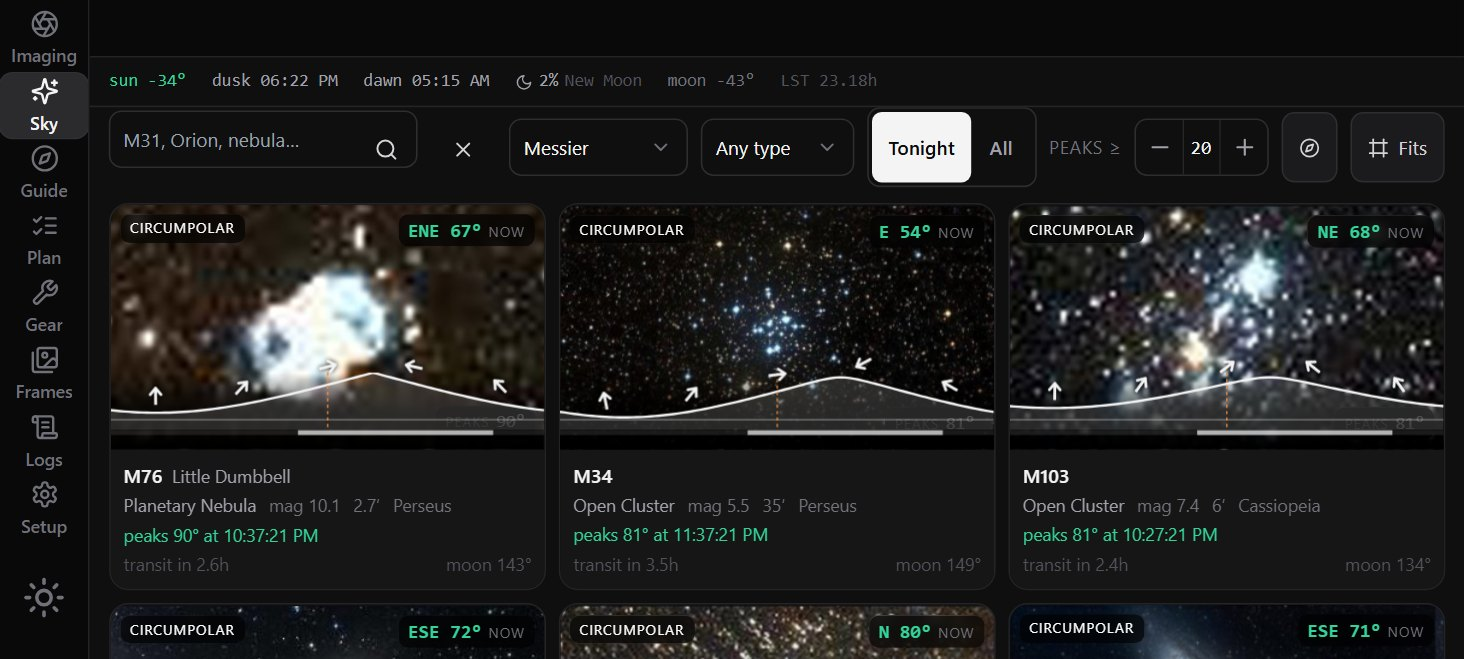
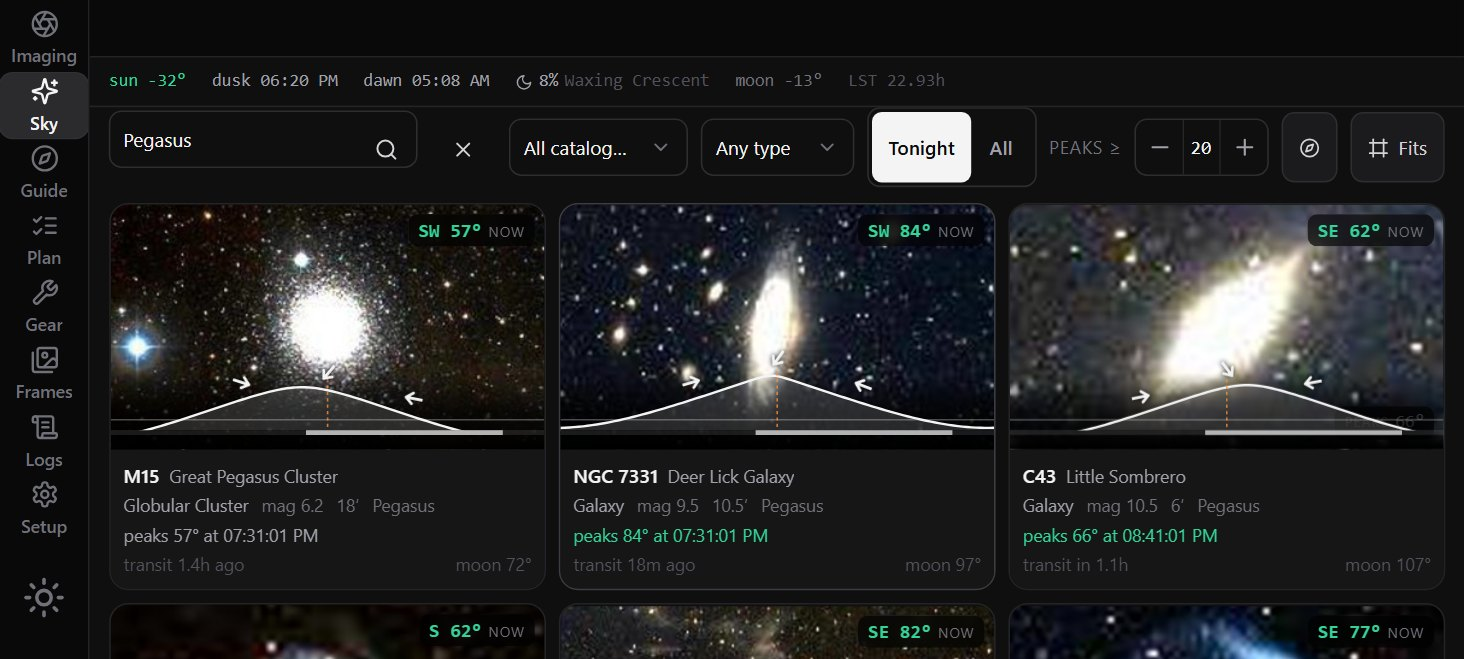
The sloppiness pass: true footer, one guiding figure per night, no Andromeda, no invented times
From a fresh-eyes review of every line and image:
- Footer says exactly which screenshots are real (26 October) and which
  are the simulator, instead of "every number was measured".
- Guiding is quoted per night (0.73" on 8 October, 0.75" on 26 October);
  the "3.38" to 1.29"" line and "night after night" are gone; the R² stat
  becomes the 0.19' polar alignment.
- AI chat: the 9:21 pm "centred to 0.22'" message is shown, the 10:56 pm
  frame count shows its 26 + 5 split so it adds up, "Opening the polar
  alignment panel" says what 7:46 pm was for, and a readout test sentence
  is cut from 26 October.
- Steps: "Give the AI the server's name", the AI must be on the same
  network, Linux and Raspberry Pi "later", "Coming with the release" gone.
- Atlas retaken searched for Pegasus (the app's own hint names M31), the
  plan folded with three Pegasus galaxies, M42 framed with labels off.
- Night timeline: invented clock times removed, cooling before dark.
- Plainer headings ("What else it does", "Weather and safety", "Works
  with ASCOM and Alpaca gear, and DSLRs"), the third "go to bed" line
  cut, ladder at 250 mm, Linux "Coming later", small repeats cut.

diff --git a/index.html b/index.html
@@ -40,7 +40,7 @@
   <nav class="links">
     <a href="#ai">AI</a>
     <a href="#guider">Guiding</a>
-    <a href="#anywhere">Screens</a>
+    <a href="#anywhere">Platforms</a>
     <a href="#tour">Tour</a>
     <a href="#features">Features</a>
     <a href="#download">Download</a>
@@ -64,8 +64,8 @@
         <h1 class="reveal" style="--d:.08s">Never waste<br /><span class="grad">a clear night.</span></h1>
         <p class="lede reveal" style="--d:.16s">
           Alan Astro finds your target, focuses, guides and works through your plan from dusk to dawn,
-          so you can go to bed. Check in from a laptop, tablet or phone. If anything goes wrong, it
-          tells you what happened and why. On our own field nights, an AI ran all of it from a few typed words.
+          so you can go to bed. Check in from a laptop, tablet or phone. If a step fails, it tells
+          you which one and why. On our own field nights, an AI ran all of it.
         </p>
         <div class="cta reveal" style="--d:.24s">
           <a class="btn" href="mailto:alan.astro.space@gmail.com?subject=Tell%20me%20when%20Alan%20Astro%20is%20out">
@@ -82,7 +82,7 @@
           <span><svg viewBox="0 0 24 24"><path d="M16.4 12.6c0-2.6 2.1-3.8 2.2-3.9-1.2-1.8-3.1-2-3.8-2-1.6-.2-3.1.9-3.9.9s-2-.9-3.4-.9C5.8 6.8 4 7.9 3 9.6c-2 3.5-.5 8.6 1.4 11.4 1 1.4 2.1 2.9 3.6 2.9 1.4-.1 2-.9 3.7-.9s2.2.9 3.7.9 2.5-1.4 3.4-2.8c1.1-1.6 1.5-3.1 1.5-3.2 0 0-3-1.1-3-4.3zM13.8 4.9c.8-.9 1.3-2.2 1.2-3.4-1.1 0-2.5.7-3.3 1.7-.7.8-1.3 2.1-1.2 3.3 1.3.1 2.5-.6 3.3-1.6z"/></svg>iPhone &amp; iPad</span>
           <span><svg viewBox="0 0 24 24"><circle cx="12" cy="12" r="9" fill="none" stroke="currentColor" stroke-width="1.8"/><path fill="none" stroke="currentColor" stroke-width="1.8" d="M3 12h18M12 3c3 3.2 3 14.8 0 18M12 3c-3 3.2-3 14.8 0 18"/></svg>Any browser</span>
         </div>
-        <p class="credit reveal" style="--d:.4s">Behind this text: Stephan's Quintet, shot with Alan Astro from a Bortle&nbsp;8 backyard. 2,800&nbsp;mm, 38&nbsp;×&nbsp;3&nbsp;min, guiding 0.73″.</p>
+        <p class="credit reveal" style="--d:.4s">Behind this text: Stephan's Quintet, shot with Alan Astro from a Bortle&nbsp;8 backyard. 2,800&nbsp;mm, 38 of the 40 three-minute frames, guiding 0.73″.</p>
       </div>
 
       <div class="devices reveal" style="--d:.2s" aria-label="Alan Astro on a laptop, a tablet and a phone">
@@ -99,37 +99,36 @@
   <!-- ── Marquee ──────────────────────────────────────────────────────── -->
   <div class="marquee" aria-label="What it works with and what it does">
     <div class="marquee-track">
-      <span>ASCOM</span><span>Alpaca</span><span>DSLR cameras</span><span>Offline plate solving</span><span>PHD2</span><span>Multi-star guiding</span><span>Live stacking</span><span>Meridian flip</span><span>Mosaic planner</span><span>Flat wizard</span><span>Weather limits</span><span>Your own horizon</span><span>Discord · Slack · ntfy</span><span>Backlash measurement</span><span>Night mode</span>
-      <span aria-hidden="true">ASCOM</span><span aria-hidden="true">Alpaca</span><span aria-hidden="true">DSLR cameras</span><span aria-hidden="true">Offline plate solving</span><span aria-hidden="true">PHD2</span><span aria-hidden="true">Multi-star guiding</span><span aria-hidden="true">Live stacking</span><span aria-hidden="true">Meridian flip</span><span aria-hidden="true">Mosaic planner</span><span aria-hidden="true">Flat wizard</span><span aria-hidden="true">Weather limits</span><span aria-hidden="true">Your own horizon</span><span aria-hidden="true">Discord · Slack · ntfy</span><span aria-hidden="true">Backlash measurement</span><span aria-hidden="true">Night mode</span>
+      <span>ASCOM</span><span>Alpaca</span><span>DSLRs</span><span>Offline plate solving</span><span>PHD2</span><span>Multi-star guiding</span><span>Live stacking</span><span>Meridian flip</span><span>Mosaic planner</span><span>Flat wizard</span><span>Weather limits</span><span>Your own horizon</span><span>Discord · Slack · ntfy</span><span>Backlash measurement</span><span>Night mode</span>
+      <span aria-hidden="true">ASCOM</span><span aria-hidden="true">Alpaca</span><span aria-hidden="true">DSLRs</span><span aria-hidden="true">Offline plate solving</span><span aria-hidden="true">PHD2</span><span aria-hidden="true">Multi-star guiding</span><span aria-hidden="true">Live stacking</span><span aria-hidden="true">Meridian flip</span><span aria-hidden="true">Mosaic planner</span><span aria-hidden="true">Flat wizard</span><span aria-hidden="true">Weather limits</span><span aria-hidden="true">Your own horizon</span><span aria-hidden="true">Discord · Slack · ntfy</span><span aria-hidden="true">Backlash measurement</span><span aria-hidden="true">Night mode</span>
     </div>
   </div>
 
   <!-- ── Stats ────────────────────────────────────────────────────────── -->
   <section class="wrap stats" aria-label="Measured on real equipment">
-    <div class="stat reveal"><b><span data-count="0.7" data-dec="1">0.7</span><small>″ RMS</small></b><span>guiding error on real stars, and under 1″ night after night</span></div>
+    <div class="stat reveal"><b><span data-count="0.73" data-dec="2">0.73</span><small>″ RMS</small></b><span>guiding at 2,800 mm, on the Stephan's Quintet night</span></div>
     <div class="stat reveal" style="--d:.08s"><b><span data-count="2800">2,800</span><small>mm</small></b><span>focal length guided at f/10, through the main scope</span></div>
     <div class="stat reveal" style="--d:.16s"><b><span data-count="18900">18,900</span><small>+</small></b><span>objects in the sky atlas, sorted by what's up tonight</span></div>
-    <div class="stat reveal" style="--d:.24s"><b><span data-count="0.997" data-dec="3">0.997</span><small>R²</small></b><span>how well the best focus curve fitted, on a real night</span></div>
+    <div class="stat reveal" style="--d:.24s"><b><span data-count="0.19" data-dec="2">0.19</span><small>′</small></b><span>polar alignment error, measured on 26 October</span></div>
   </section>
 
   <!-- ── AI-assisted ──────────────────────────────────────────────────────
        Every message below is quoted word for word from the alan-astro field
        session (498b3986), lines noted in README.md. "…" marks a cut, and
-       [brackets] replace equipment brand names and fix one typo. Times are local. -->
+       [brackets] replace equipment brand names and one garbled phrase. Times are local. -->
   <section id="ai" class="wrap section">
     <p class="kicker kicker-lg reveal">AI-assisted astronomy</p>
     <h2 class="h2 reveal">Tell it what to shoot. <em>The AI runs the night.</em></h2>
     <p class="sub reveal">
       These are real messages from field nights with an 11-inch SCT at 2,800&nbsp;mm, in a Bortle&nbsp;8
-      backyard. The owner typed a few words, and an AI ran Alan Astro: the gear, polar alignment, focus,
-      guiding and the plan. On 8&nbsp;October the target was Stephan's Quintet, and the night ended with the
-      picture at the top of this page.
+      backyard. We typed a few words, and an AI ran Alan Astro: it set up the gear, measured polar
+      alignment, focused, guided and ran the plan. On 8&nbsp;October the target was Stephan's Quintet.
     </p>
 
     <ol class="ai-steps">
-      <li class="reveal"><span>1</span><div><b>Install the server</b><p>Put Alan Astro on the computer at your telescope: a Windows PC, a Linux mini PC or a Raspberry Pi 4 or 5. That's your astro server.</p></div></li>
-      <li class="reveal" style="--d:.08s"><span>2</span><div><b>Tell the AI its name</b><p>Give the AI your astro server's name, like <code>astro-pc</code>. The server describes its own API at <code>astro-pc:5544/api</code>, with a step-by-step guide to running a night, so the AI learns everything it needs from there. <em class="soon-note">Coming with the release.</em></p></div></li>
-      <li class="reveal" style="--d:.16s"><span>3</span><div><b>Say what to shoot</b><p>A target and the sky you can see. The AI runs the night and tells you how it went.</p></div></li>
+      <li class="reveal"><span>1</span><div><b>Install the server</b><p>Put Alan Astro on the computer at your telescope: a Windows PC, or later a Linux mini PC or a Raspberry Pi 4 or 5. That's your astro server.</p></div></li>
+      <li class="reveal" style="--d:.08s"><span>2</span><div><b>Give the AI the server's name</b><p>Tell the AI your astro server's name, like <code>astro-pc</code>. The server describes its own API at <code>astro-pc:5544/api</code>, with a step-by-step guide to running a night, so the AI can learn it from there. The AI has to run on a computer on the same network.</p></div></li>
+      <li class="reveal" style="--d:.16s"><span>3</span><div><b>Say what to shoot</b><p>Name a target and the part of the sky you can see. The AI tells you how the night went.</p></div></li>
     </ol>
 
     <div class="ai-story">
@@ -149,19 +148,20 @@
 
       <ol class="chat reveal" aria-label="Messages from the night of 8 October">
         <li class="msg you"><time>7:44 pm</time>take over. take me to [the knob stage]. … got it?</li>
-        <li class="msg ai"><time>7:46 pm</time>In position: HA +0.50 h, Dec +40°, 84° up, tracking. …</li>
+        <li class="msg ai"><time>7:46 pm</time>In position: HA +0.50 h, Dec +40°, 84° up, tracking. Opening the polar alignment panel …</li>
         <li class="msg ai"><time>7:52 pm</time>You've already turned and refreshed, and the panel shows it: <b>Total error: 00° 02′ 40″, "Good — usable as it is."</b> That's down from 35′. … Then I'll focus and set up guiding, …</li>
-        <li class="msg ai"><time>8:04 pm</time>Stephan's Quintet (HCG 92) is at 61.7° altitude, due east, and crosses the meridian in 2.3 hours. Slewing and centring: …</li>
+        <li class="msg ai"><time>8:04 pm</time>Stephan's Quintet (HCG 92) is at 61.7° altitude, due east, and crosses the meridian in 2.3 hours. …</li>
         <li class="msg ai"><time>8:39 pm</time>Centred at 0.36′ (4 attempts). Starting guiding with a fresh calibration, …</li>
         <li class="msg ai"><time>8:39 pm</time>Focus holds: HFR 3.86 on a 10 s frame, better than autofocus's 4.33. …</li>
         <li class="msg ai"><time>9:02 pm</time>… All five members show, faint because it's a single sub at f/10. … Shall I re-centre and run a set of 3-minute subs?</li>
         <li class="msg you"><time>9:03 pm</time>Yes</li>
         <li class="msg ai"><time>9:20 pm</time>The plan is loaded and saved: <b>40 × 180 s, about 2h05m</b>, with the target at 76° altitude and 1.06 h to the meridian. …</li>
+        <li class="msg ai"><time>9:21 pm</time>The plan is running: <b>centred to 0.22′</b>, now starting the guider. …</li>
         <li class="msg you"><time>9:46 pm</time>Screenshot guiding plz</li>
         <li class="msg ai"><time>9:47 pm</time>… It shows <b>RMS RA 0.53″, Dec 0.50″, total 0.73″</b> over the last 100 samples, multi-star on the [camera's] built-in guide sensor at 2800 mm. For an [11-inch SCT] on [this mount], that's good.</li>
-        <li class="msg ai"><time>10:43 pm</time><b>The plan:</b> 22 of 40 frames, the flip handled on its own, …</li>
+        <li class="msg ai"><time>10:43 pm</time>… <b>The plan:</b> 22 of 40 frames, the flip handled on its own, …</li>
         <li class="msg you"><time>10:55 pm</time>You have been taking images right?</li>
-        <li class="msg ai"><time>10:56 pm</time>Yes. <b>31 subs of Stephan's Quintet so far</b>, all 180&nbsp;s at gain 100 and −10&nbsp;°C: … That's 93 minutes of data already.</li>
+        <li class="msg ai"><time>10:56 pm</time>Yes. <b>31 subs of Stephan's Quintet so far</b>, all 180&nbsp;s at gain 100 and −10&nbsp;°C:<ul class="in-msg"><li><b>26 from the plan:</b> HFR 4.14–5.63 (median 4.95), 186–289 stars each. 14 more to come.</li><li><b>5 from before the plan:</b> the first test sub plus my 4 test subs.</li></ul>That's 93 minutes of data already. …</li>
         <li class="msg you"><time>11:42 pm</time>Need to take flats, auto exposure</li>
         <li class="msg ai"><time>11:43 pm</time>The quintet plan is <b>finished: 40/40 frames</b>. …</li>
         <li class="msg ai"><time>11:44 pm</time><b>Flats done: 20 frames at 0.095 s, mean 32,846 ADU</b> against a target of 32,768, which is half well almost exactly. … They're saved beside the lights.</li>
@@ -176,7 +176,7 @@
           <li class="msg you"><time>9:32 pm</time>I am going outside now</li>
           <li class="msg ai"><time>9:32 pm</time>Ready. The polar measurement is waiting at the knob stage, last read at 16.45′ of azimuth.<br />At the mount:<ol class="in-msg"><li>Mark the azimuth knob's position.</li><li>Turn it exactly <b>one full revolution west</b>, the way the screen's azimuth arrow points.</li><li>Say "done". …</li></ol></li>
           <li class="msg you"><time>9:33 pm</time>Done</li>
-          <li class="msg ai"><time>9:35 pm</time>Run B reads <b>azimuth −7.55′</b>, against 17.18′ before the turn. So one revolution truly moved the azimuth <b>24.7′</b> on the sky, and the refresh reported <b>26.6′</b>. … One more turn and you can go inside: about <b>a third of a revolution east, roughly 110°</b>, then say "done". …</li>
+          <li class="msg ai"><time>9:35 pm</time>Run B reads <b>azimuth −7.55′</b>, against 17.18′ before the turn. … One more turn and you can go inside: about <b>a third of a revolution east, roughly 110°</b>, then say "done". …</li>
           <li class="msg you"><time>9:35 pm</time>What?</li>
           <li class="msg ai"><time>9:36 pm</time>Sorry, that was too much at once. Here's the short version. The full turn you made went a little past the target. Now turn the <b>same azimuth knob back the other way (east)</b> by about <b>a third of a turn</b>. Picture the knob as a clock face: start at 12 and stop at about 4. Then say "done" and go inside. I'll do the rest from here.</li>
         </ol>
@@ -194,7 +194,7 @@
       </article>
     </div>
 
-    <p class="ai-note reveal">Quoted word for word from the session logs. "…" marks a cut, and [brackets] replace equipment brand names and fix one typo. The AI isn't built into the app. It drove Alan Astro through the app's own server, the same way the app's screens do.</p>
+    <p class="ai-note reveal">Quoted word for word from the session logs. "…" marks a cut, and [brackets] replace equipment brand names and one garbled phrase. The AI isn't built into the app. It drove Alan Astro through the app's own server, the same way the app's screens do.</p>
   </section>
 
   <!-- ── Guider ───────────────────────────────────────────────────────── -->
@@ -214,36 +214,34 @@
           <li class="reveal"><span class="tick"><svg viewBox="0 0 24 24"><path d="m5 12 5 5 9-10"/></svg></span><div><b>Limits that know your scope</b><p>The minimum move, the settle limit and the search area each have a floor in arcseconds, worked out for your camera and focal length, so none of them can be set too small.</p></div></li>
           <li class="reveal"><span class="tick"><svg viewBox="0 0 24 24"><path d="m5 12 5 5 9-10"/></svg></span><div><b>Knows your guide setup</b><p>A guide scope, an off-axis guider or a camera's built-in guide sensor, with binning counted in. It won't start guiding until it knows the pixel scale.</p></div></li>
           <li class="reveal"><span class="tick"><svg viewBox="0 0 24 24"><path d="m5 12 5 5 9-10"/></svg></span><div><b>Several stars at once</b><p>It follows up to five stars and uses the middle value of their movement, so one star in bad seeing can't pull the mount off.</p></div></li>
-          <li class="reveal"><span class="tick"><svg viewBox="0 0 24 24"><path d="m5 12 5 5 9-10"/></svg></span><div><b>Picks clean stars</b><p>It chooses stars that stand out clearly from the background, not just the brightest, and can skip the stretched stars at the edge of an off-axis guider. On one field, that alone took guiding from 3.38″ to 1.29″ RMS.</p></div></li>
+          <li class="reveal"><span class="tick"><svg viewBox="0 0 24 24"><path d="m5 12 5 5 9-10"/></svg></span><div><b>Picks clean stars</b><p>It chooses stars that stand out clearly from the background, not just the brightest, and can skip the stretched stars at the edge of an off-axis guider.</p></div></li>
           <li class="reveal"><span class="tick"><svg viewBox="0 0 24 24"><path d="m5 12 5 5 9-10"/></svg></span><div><b>A guiding assistant</b><p>It watches the mount drift with no corrections, tells seeing apart from real drift, and suggests a minimum move.</p></div></li>
         </ul>
       </div>
 
       <div class="glow-wrap reveal">
-        <div class="frame"><img src="assets/app-guide.jpg" loading="lazy" width="1600" height="1000" alt="Guiding on real stars on 26 October: five guide stars boxed, and the error at 0.57″ in RA, 0.50″ in DEC, 0.75″ in total" /></div>
-        <div class="callout c1"><b>0.7″</b>RMS guiding,<br />measured on real stars</div>
-        <div class="callout c2"><b>&lt;&nbsp;1″</b>RMS,<br />night after night</div>
+        <div class="frame"><img src="assets/app-guide.jpg" loading="lazy" width="1600" height="1000" alt="Guiding on real stars on 26 October: five guide stars boxed, and the error at 0.57″ in RA, 0.50″ in Dec, 0.75″ in total" /></div>
+        <div class="callout c1"><b>0.73″</b>RMS guiding,<br />the Stephan's Quintet night</div>
+        <div class="callout c2"><b>0.75″</b>RMS on 26 October,<br />the night in this picture</div>
       </div>
     </div>
 
     <div class="ladder reveal">
-      <div class="ladder-row"><span>240 mm</span><div class="ladder-bar"><i style="--w:8.6%"></i></div><span>0.31 px</span></div>
+      <div class="ladder-row"><span>250 mm</span><div class="ladder-bar"><i style="--w:8.9%"></i></div><span>0.32 px</span></div>
       <div class="ladder-row"><span>700 mm</span><div class="ladder-bar"><i style="--w:25%"></i></div><span>0.90 px</span></div>
       <div class="ladder-row"><span>1,400 mm</span><div class="ladder-bar"><i style="--w:50%"></i></div><span>1.8 px</span></div>
       <div class="ladder-row"><span>2,800 mm</span><div class="ladder-bar"><i style="--w:100%"></i></div><span>3.6 px</span></div>
-      <p>How far one arcsecond of error moves a star on a camera with 3.76&nbsp;µm pixels. At 2,800&nbsp;mm it moves almost twelve times as far as at 240&nbsp;mm, so a limit set in pixels would be wrong by the same amount. That's why the guider checks its limits in arcseconds.</p>
+      <p>How far one arcsecond of error moves a star on a camera with 3.76&nbsp;µm pixels. At 2,800&nbsp;mm it moves about eleven times as far as at 250&nbsp;mm, so a limit set in pixels would be wrong by the same amount.</p>
     </div>
   </section>
 
-  <div class="wrap"><p class="quote reveal">Start the plan and go to bed. <em>Check your frames in the morning.</em></p></div>
-
   <!-- ── Anywhere ─────────────────────────────────────────────────────── -->
   <section id="anywhere" class="wrap section center">
-    <p class="kicker reveal">Any screen</p>
-    <h2 class="h2 reveal">One server at the telescope. <em>Control it from any device.</em></h2>
+    <p class="kicker reveal">Platforms</p>
+    <h2 class="h2 reveal">One server at the telescope. <em>Open it on a laptop, tablet or phone.</em></h2>
     <p class="sub reveal">
-      The server runs on the computer at your mount. Open it from any laptop, tablet or phone on the
-      same network. Several screens can follow the same session, and closing one stops nothing.
+      The server runs on the computer at your mount, and anything on the same network can open it.
+      Several screens can follow the same session, and closing one doesn't stop the night.
     </p>
 
     <div class="anywhere">
@@ -265,7 +263,7 @@
       <div class="tiles">
         <div class="tile reveal"><svg viewBox="0 0 24 24" class="line"><circle cx="12" cy="12" r="9"/><path d="M3 12h18M12 3c3 3.2 3 14.8 0 18M12 3c-3 3.2-3 14.8 0 18"/></svg><div><b>Any browser</b><span>Windows, macOS, Linux, ChromeOS · made for touch</span></div></div>
         <div class="tile reveal" style="--d:.08s"><svg viewBox="0 0 24 24"><path d="M4 3.5v17l9.5-8.5zM14.8 13.2l2.6 2.4-11 6.3zM14.8 10.8 6.4 2.1l11 6.3zM18.6 9.2 21 10.6c.9.6.9 2.2 0 2.8l-2.4 1.4-2.8-2.8z"/></svg><div><b>Android</b><span>A native app for phones and tablets</span></div></div>
-        <div class="tile reveal" style="--d:.16s"><svg viewBox="0 0 24 24"><path d="M16.4 12.6c0-2.6 2.1-3.8 2.2-3.9-1.2-1.8-3.1-2-3.8-2-1.6-.2-3.1.9-3.9.9s-2-.9-3.4-.9C5.8 6.8 4 7.9 3 9.6c-2 3.5-.5 8.6 1.4 11.4 1 1.4 2.1 2.9 3.6 2.9 1.4-.1 2-.9 3.7-.9s2.2.9 3.7.9 2.5-1.4 3.4-2.8c1.1-1.6 1.5-3.1 1.5-3.2 0 0-3-1.1-3-4.3zM13.8 4.9c.8-.9 1.3-2.2 1.2-3.4-1.1 0-2.5.7-3.3 1.7-.7.8-1.3 2.1-1.2 3.3 1.3.1 2.5-.6 3.3-1.6z"/></svg><div><b>iPhone &amp; iPad</b><span>A native app for iPhone and iPad</span></div></div>
+        <div class="tile reveal" style="--d:.16s"><svg viewBox="0 0 24 24"><path d="M16.4 12.6c0-2.6 2.1-3.8 2.2-3.9-1.2-1.8-3.1-2-3.8-2-1.6-.2-3.1.9-3.9.9s-2-.9-3.4-.9C5.8 6.8 4 7.9 3 9.6c-2 3.5-.5 8.6 1.4 11.4 1 1.4 2.1 2.9 3.6 2.9 1.4-.1 2-.9 3.7-.9s2.2.9 3.7.9 2.5-1.4 3.4-2.8c1.1-1.6 1.5-3.1 1.5-3.2 0 0-3-1.1-3-4.3zM13.8 4.9c.8-.9 1.3-2.2 1.2-3.4-1.1 0-2.5.7-3.3 1.7-.7.8-1.3 2.1-1.2 3.3 1.3.1 2.5-.6 3.3-1.6z"/></svg><div><b>iPhone &amp; iPad</b><span>A native app</span></div></div>
       </div>
     </div>
   </section>
@@ -283,8 +281,8 @@
     </div>
     <div class="stage glow-wrap reveal">
       <div class="frame">
-        <img class="on" src="assets/sky.jpg" loading="lazy" alt="The sky atlas: targets that rise tonight, each with its altitude curve" />
-        <img src="assets/app-frame-m42.jpg" loading="lazy" alt="Framing M42, the Orion Nebula: the camera's field of view on the sky, with nearby objects labelled" />
+        <img class="on" src="assets/sky.jpg" loading="lazy" alt="The sky atlas, searched for Pegasus: each target with its altitude curve tonight" />
+        <img src="assets/app-frame.jpg" loading="lazy" alt="Framing M42, the Orion Nebula: the camera's field of view drawn on the sky" />
         <img src="assets/app-plan.jpg" loading="lazy" alt="The Plan screen with three targets, Stephan's Quintet first" />
         <img src="assets/app-guide.jpg" loading="lazy" alt="Guiding on real stars on 26 October, at 0.75″ total" />
       </div>
@@ -297,7 +295,7 @@
   <section class="wrap section">
     <p class="kicker reveal">Dusk to dawn</p>
     <h2 class="h2 reveal">Plan it in the evening. <em>Wake up to data.</em></h2>
-    <p class="sub reveal">A plan runs the whole night, from cooling the camera at dusk to parking the mount at dawn. If the weather turns bad, it pauses and carries on when the sky clears.</p>
+    <p class="sub reveal">A plan runs the whole night, from cooling the camera at dusk to sending the mount home at dawn. If the weather turns bad, it pauses and carries on when the sky clears.</p>
 
     <div class="night">
       <svg class="curve" viewBox="0 0 1000 130" preserveAspectRatio="none" aria-hidden="true">
@@ -307,17 +305,17 @@
         <path class="path" d="M0,10 C120,20 180,120 500,124 C820,120 880,20 1000,10" />
         <text class="lbl" x="6" y="24">sunset</text>
         <text class="lbl" x="940" y="24">sunrise</text>
-        <text class="lbl" x="462" y="112">sun −52°</text>
+        <text class="lbl" x="468" y="112">midnight</text>
       </svg>
       <div class="steps">
-        <div class="step" style="--i:0"><time>20:40</time><b>Wait for dark</b><span>Until the sun is 12° below the horizon</span></div>
-        <div class="step" style="--i:1"><time>20:55</time><b>Cool the camera</b><span>Slowly, not all at once</span></div>
-        <div class="step" style="--i:2"><time>21:10</time><b>Slew, solve, centre</b><span>Until the target is where you framed it</span></div>
-        <div class="step" style="--i:3"><time>21:14</time><b>Autofocus</b><span>And reports how good the fit was</span></div>
-        <div class="step" style="--i:4"><time>21:20</time><b>Guide and dither</b><span>Waits for guiding to settle before each frame</span></div>
-        <div class="step" style="--i:5"><time>00:36</time><b>Meridian flip</b><span>Stops guiding, flips, starts again</span></div>
-        <div class="step" style="--i:6"><time>02:10</time><b>Refocus</b><span>After a set time, a temperature change or softer stars</span></div>
-        <div class="step" style="--i:7"><time>05:05</time><b>Home and warm up</b><span>Then an alert to your phone, if you've set one up</span></div>
+        <div class="step" style="--i:0"><b>Cool the camera</b><span>Slowly, not all at once</span></div>
+        <div class="step" style="--i:1"><b>Wait for dark</b><span>Until the sun is 12° below the horizon</span></div>
+        <div class="step" style="--i:2"><b>Slew, solve, centre</b><span>Until the target is where you framed it</span></div>
+        <div class="step" style="--i:3"><b>Autofocus</b><span>Then reports how well the curve fitted</span></div>
+        <div class="step" style="--i:4"><b>Guide and dither</b><span>Waits for guiding to settle before each frame</span></div>
+        <div class="step" style="--i:5"><b>Meridian flip</b><span>Stops guiding, flips, starts again</span></div>
+        <div class="step" style="--i:6"><b>Refocus</b><span>After a set time, a temperature change or softer stars</span></div>
+        <div class="step" style="--i:7"><b>Home and warm up</b><span>Then an alert to your phone, if you've set one up</span></div>
       </div>
     </div>
   </section>
@@ -325,21 +323,21 @@
   <!-- ── Features (bento) ─────────────────────────────────────────────── -->
   <section id="features" class="wrap section">
     <p class="kicker reveal">Also included</p>
-    <h2 class="h2 reveal">Everything else <em>a night needs.</em></h2>
+    <h2 class="h2 reveal">What else <em>it does.</em></h2>
 
     <div class="bento">
       <article class="card media span-4 wide reveal">
-        <img class="full" src="assets/focus.jpg" loading="lazy" width="1600" height="934" alt="A real autofocus run on 26 October: the curve fitted through the star sizes, HFR 6.19 to 4.09, R² 0.99" />
+        <img class="full" src="assets/focus.jpg" loading="lazy" width="1544" height="934" alt="A real autofocus run on 26 October: the curve fitted through the star sizes, HFR 6.19 to 4.09, R² 0.99" />
         <div class="body">
           <h3>Autofocus that shows its work</h3>
-          <p>It steps the focuser through focus, fits a curve through the star sizes and tells you how well the curve fits. You don't have to measure backlash first: every move finishes from the same side, so slack in the gears can't move the result. It applies the focus offset you set for each filter, and if a run fails, it says so.</p>
+          <p>It steps the focuser through focus, fits a curve through the star sizes and tells you how well the curve fits. It can measure the focuser's backlash, but it doesn't need to: every move finishes from the same side, so slack in the gears can't move the result. It applies the focus offset you set for each filter, and if a run fails, it says so.</p>
         </div>
       </article>
       <article class="card span-2 reveal" style="--d:.08s">
         <div class="num">0.12<small>′</small></div>
         <h3>Plate solving that catches mistakes</h3>
         <p>It solves on your own computer, with no internet. On a real night it centred a target to 0.12 arcminutes in two tries. It also reports the focal length it measured, so you'll notice if you forgot the reducer.</p>
-        <ul class="mini"><li>Works offline</li><li>Centres as close as you ask</li><li>Names what's in the frame</li><li>Measured vs. expected focal length</li></ul>
+        <ul class="mini"><li>Centres to the tolerance you set</li><li>Names what's in the frame</li><li>Measured vs. expected focal length</li></ul>
       </article>
 
       <article class="card span-2 reveal">
@@ -350,7 +348,7 @@
       <article class="card span-2 reveal" style="--d:.08s">
         <div class="ico"><svg viewBox="0 0 24 24"><rect x="4" y="4" width="12" height="12" rx="2"/><rect x="8" y="8" width="12" height="12" rx="2"/></svg></div>
         <h3>Live stacking</h3>
-        <p>Frames are lined up on their stars and stacked as they arrive, with your darks and flats applied. Bad frames are left out, and it tells you why. It can stack a running plan as it goes.</p>
+        <p>Frames are lined up on their stars and stacked as they arrive, with your darks and flats applied. Bad frames are left out, and it tells you why.</p>
       </article>
       <article class="card span-2 reveal" style="--d:.16s">
         <div class="ico"><svg viewBox="0 0 24 24"><path d="M4 14a8 8 0 0 1 16 0"/><path d="M12 14l4-4"/><path d="M3 18h18"/></svg></div>
@@ -359,7 +357,7 @@
       </article>
 
       <article class="card media span-3 reveal">
-        <img src="assets/sky.jpg" loading="lazy" width="1800" height="1125" alt="Sky atlas cards with altitude curves for Caldwell objects" />
+        <img src="assets/sky.jpg" loading="lazy" width="1800" height="1125" alt="Sky atlas cards with altitude curves, searched for Pegasus" />
         <div class="body">
           <h3>A sky atlas for tonight</h3>
           <p>Over 18,900 objects: OpenNGC, the Messier, Caldwell and Abell lists, nebula and cluster catalogues such as Sharpless and Barnard, and the planets and comets. It shows what gets high enough in darkness tonight, in the directions you can see. Each target has its altitude curve with your horizon drawn on it, when it's highest and how far it is from the Moon. There's a mosaic planner too.</p>
@@ -367,7 +365,7 @@
       </article>
       <article class="card span-3 reveal" style="--d:.08s">
         <div class="ico"><svg viewBox="0 0 24 24"><path d="M12 3 3 20h18z"/><path d="M12 10v4M12 17v.5"/></svg></div>
-        <h3>Safe while you sleep</h3>
+        <h3>Weather and safety</h3>
         <p>Six weather limits (wind, gusts, rain, cloud, humidity and dew) pause the night and pick it up again when conditions clear, instead of ending it. A safety monitor that stops answering counts as unsafe. Your own horizon applies to every slew.</p>
         <ul class="chips" style="margin-top:22px">
           <li>Discord</li><li>Slack</li><li>ntfy</li><li>Home Assistant</li>
@@ -392,7 +390,7 @@
     </div>
     <div class="night-facts">
       <div class="reveal"><b>Red, not white</b>Even the brightest text is a soft red, and a dimmer can take the screen down by up to 70%. Red light disturbs night vision least.</div>
-      <div class="reveal" style="--d:.08s"><b>Turns itself on</b>Unless you've picked a theme yourself, it switches on after dusk and remembers, so the app never opens on a bright screen in the dark.</div>
+      <div class="reveal" style="--d:.08s"><b>Turns itself on</b>Unless you've picked a theme yourself, it switches on after dusk, so the app never opens on a bright screen in the dark.</div>
       <div class="reveal" style="--d:.16s"><b>Try it here</b><button class="btn btn-ghost btn-sm theme-toggle-inline" type="button" style="margin-top:10px">Turn this page red</button></div>
     </div>
   </section>
@@ -400,7 +398,7 @@
   <!-- ── Hardware ─────────────────────────────────────────────────────── -->
   <section id="hardware" class="wrap section center">
     <p class="kicker reveal">Hardware</p>
-    <h2 class="h2 reveal">Works with the gear <em>you already have.</em></h2>
+    <h2 class="h2 reveal">Works with ASCOM and Alpaca gear, <em>and DSLRs.</em></h2>
     <ul class="chips center-chips reveal">
       <li class="strong">ASCOM</li><li class="strong">Alpaca</li><li class="strong">DSLRs</li>
       <li>Cameras</li><li>Mounts</li><li>Focusers</li><li>Filter wheels</li><li>Rotators</li>
@@ -422,7 +420,7 @@
             <div><h3>Windows</h3><p class="meta">Installer · 64-bit</p></div>
           </div>
           <p>Installs a Windows service that starts with the computer and serves the app on port <code>5544</code>. Open the address it shows from any browser on your network.</p>
-          <ul class="mini"><li>ASCOM · Alpaca · DSLRs</li><li>Runs in the background as a service</li><li>Installs over an older version</li><li>A simulator for every device, to try it indoors</li></ul>
+          <ul class="mini"><li>ASCOM · Alpaca · DSLRs</li><li>A simulator for every device, to try it indoors</li></ul>
           <span class="btn btn-block soon" aria-disabled="true">Coming soon</span>
         </article>
 
@@ -440,7 +438,7 @@
           <article class="card store reveal" style="--d:.24s">
             <svg viewBox="0 0 24 24" class="os"><path d="M12 2c-2 0-3 2-3 4 0 1.2.3 2-.6 3.3C7 11 5 13.3 5 16c0 1 .3 1.9.8 2.6-.9.6-1.8 1.4-1.3 2.2.6.9 2.7.3 4.2 1 1 .4 2 .3 2.6-.3h1.4c.6.6 1.6.7 2.6.3 1.5-.7 3.6-.1 4.2-1 .5-.8-.4-1.6-1.3-2.2.5-.7.8-1.6.8-2.6 0-2.7-2-5-3.4-6.7-.9-1.3-.6-2.1-.6-3.3 0-2-1-4-3-4z"/></svg>
             <div class="store-body"><h3>Linux server</h3><p class="meta">Raspberry Pi 4 or 5 · mini PC · INDI and Alpaca</p></div>
-            <span class="badge soon" aria-disabled="true"><small>Linux build</small><b>Coming soon</b></span>
+            <span class="badge soon" aria-disabled="true"><small>Linux build</small><b>Coming later</b></span>
           </article>
           <p class="fine reveal">You won't need an app: any browser on the same network will work.</p>
         </div>
@@ -454,7 +452,7 @@
     <svg viewBox="0 0 100 100" class="mark" aria-hidden="true"><g fill="none" stroke="currentColor" stroke-width="8" stroke-linecap="round" stroke-linejoin="round"><path d="M14 82 L36 24 L58 82"/><path d="M42 82 L64 24 L86 82"/><path d="M25 62 L47 62"/><path d="M53 62 L75 62"/></g></svg>
     <span>Alan Astro</span>
   </div>
-  <p>Built for real equipment on real nights. Every number on this page was measured on real stars. The guiding, autofocus and sky-framing screenshots are from real nights; the rest show the app on its built-in simulator.</p>
+  <p>The Sky screen on the laptop, the guiding screen and the autofocus run are from a real night, 26 October. The atlas, framing and plan screens show the app's built-in simulator. Every guiding, focus, centring and polar alignment figure was measured on real stars.</p>
   <p><a class="inline" href="mailto:alan.astro.space@gmail.com">alan.astro.space@gmail.com</a></p>
 </footer>
 

diff --git a/site.js b/site.js
@@ -51,10 +51,10 @@
 
   // ── Tour tabs, auto-advancing until someone picks one ─────────────────
   var captions = [
-    '<b>Atlas.</b> Over 18,900 objects, sorted by what gets high enough in darkness tonight. Each shows its altitude curve, when it’s highest and how far it is from the Moon.',
-    '<b>Frame.</b> Pick a target and see your camera’s field of view on the sky, with the objects around it labelled. Then slew and centre with one tap.',
+    "<b>Atlas.</b> Search, or filter by catalogue, type, direction and whether it fits your frame. Each target shows how high it gets tonight.",
+    "<b>Frame.</b> Pick a target and see your camera's field of view drawn on the sky. Then slew and centre with one tap.",
     '<b>Plan.</b> Your targets in order, what to do at the start and end of the night, and how long it will all take.',
-    '<b>Guide.</b> The guide stars, a close-up of the main one, and the error drawn in arcseconds, so you can read how well it’s guiding at a glance.'
+    "<b>Guide.</b> The guide stars, a close-up of the main one, and the error drawn in arcseconds, so you can read how well it's guiding at a glance."
   ]
   var tabs = [].slice.call(document.querySelectorAll('.tab'))
   var slides = [].slice.call(document.querySelectorAll('.stage img'))

diff --git a/README.md b/README.md
@@ -34,9 +34,8 @@ To switch one on:
 - **iOS:** the same, with `https://apps.apple.com/app/id<number>`, once the app has an App Store listing.
 - **Linux:** stays "Coming soon" until `miah-al/alan-astro-linux` publishes a build.
 - Then put the hero's main button back to a download link, and change "Coming soon." in the download section.
-- **The AI section, step 2:** take off "Coming with the release" once an installed build carries the
-  self-describing API (alan-astro SV-108, merged 2026-11-11 as `a5cddf4d`). It serves `/api` and `/openapi/v1.json`;
-  1.0.2505.0 and older do not.
+- **The AI section, step 2** names the self-describing API (alan-astro SV-108, merged 2026-11-11 as `a5cddf4d`;
+  `/api` and `/openapi/v1.json`). Builds from 1.0.2505.0 back do not have it, so check the release carries it.
 
 ## Local preview
 
@@ -52,8 +51,11 @@ Where each image comes from (2026-11-07):
 - `app-sky.jpg`, `app-guide.jpg`, `focus.jpg`: real screens from the 2026-10-26 field night
   (`docs/reference/images/2026-10-26/` in alan-astro). `focus.jpg` is cropped below the status row, which shows the site's name.
   Use real guide and focus captures: the simulator guides at an unbelievable 0.07″ and fits focus at R² 1.00.
-- The rest (`app-frame-m42.jpg`, `app-plan.jpg`, `app-plan-night.jpg`, `sky.jpg`, `app-atlas-phone.jpg`) are from
-  the simulator, taken from alan-astro master `cd447e8c` on an isolated server, never the desk rig:
+- The rest (`app-frame.jpg`, `app-plan.jpg`, `app-plan-night.jpg`, `sky.jpg`, `app-atlas-phone.jpg`) are from
+  the simulator, taken from alan-astro master `cd447e8c` on an isolated server, never the desk rig. Retaken 2026-11-12 with
+  `tools/reshoot.mjs`: the atlas searched for "Pegasus" (the app's own search hint names M31, and the page shows no
+  Andromeda), the plan folded with three Pegasus galaxies, and M42 with object labels off (they print over each other).
+  For an evening sky at that hour the example site sat at 40° N 120° W; M42 used the English example site:
 
 1. A worktree of alan-astro at `D:\tmp\site-shots`, built (`dotnet build backend\AstroControl.Api -c Debug`,
    then `npm run build` in `web`).
@@ -77,7 +79,7 @@ Real messages from field nights on the 11-inch SCT at 2,800 mm (the Stephan's Qu
 names, IPs, people or issue ids. Times are local (EDT until 1 November, EST after).
 
 Sources, all in the alan-astro session transcript `498b3986-6101-47c6-a3c4-c6bd5d30fd16.jsonl` (line numbers):
-- 8 October, Stephan's Quintet: 16355, 16409, 16543, 16728, 17277, 17282, 17688, 17691, 17923, 18401, 18434, 18915, 18918, 18937, 19061, 19076, 19109
+- 8 October, Stephan's Quintet: 16355, 16409, 16543, 16728, 17965, 17277, 17282, 17688, 17691, 17923, 18401, 18434, 18915, 18918, 18937, 19061, 19076, 19109
 - 26 October, the clock face: 59345, 59357, 59360, 59390, 59400, 59412, and 59961 for the 0.19′
 - Sky and targets, 8 October: 18555, 18570, 18637
 
@@ -87,7 +89,8 @@ To check a quote: read that line of the JSONL, parse it, and print `message.cont
 
 Every number on the page is a measurement recorded in the alan-astro issue register, given by the owner,
 or read from the running app (the atlas: 18,956 entries on 2026-11-07). Check before adding one.
-On 2026-11-07 every claim was checked against master `cd447e8c`. Things that are **not** true and must not come back:
+On 2026-11-07 every claim was checked against master `cd447e8c`. Guiding is quoted per night (0.73″ on 8 October, 0.75″ on 26 October), never "under 1″ night after night".
+The night timeline has no clock times: they were invented. Things that are **not** true and must not come back:
 
 - INDI on Windows (it is only in the unreleased Linux server).
 - "Won't autofocus until backlash is measured" (it runs without a backlash figure).
